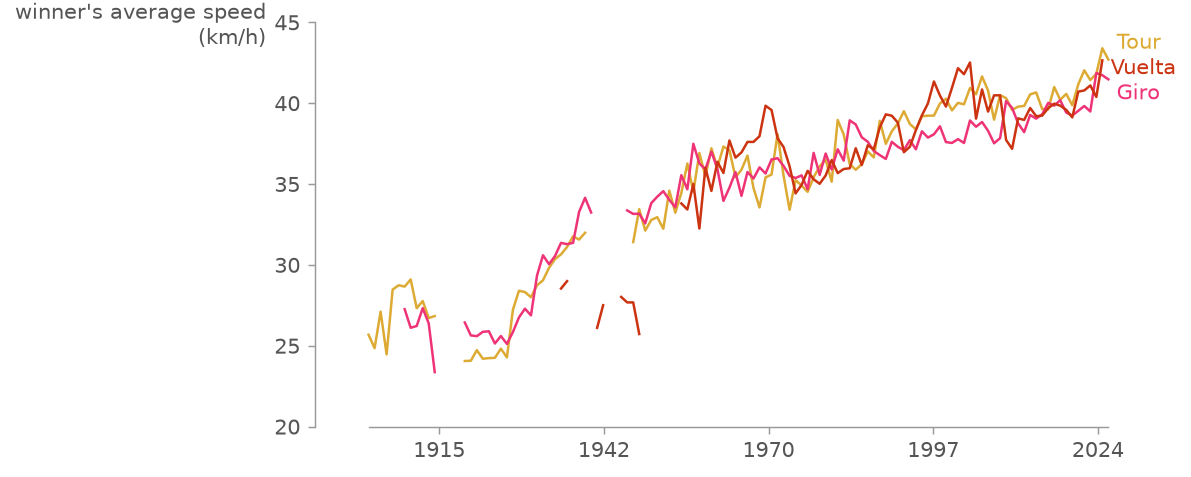
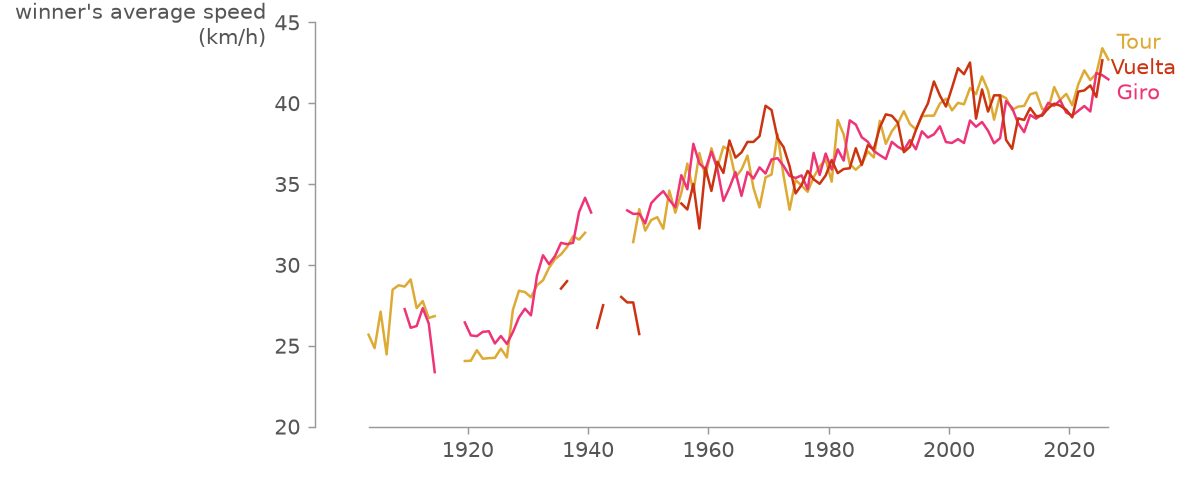
docs: plot date data before apply
apply detects a date axis through its converter at call time, so an
axis fed dates only afterwards keeps TalbotLocator and gets ticks at
nice day counts dressed as dates. Reorder the grand tours panel,
restoring calendar-start ticks, and state the ordering in Usage.

Claude-Session: https://claude.ai/code/session_01Fx5DXVwfXho6Lo1zi8Ne2d

diff --git a/examples/gallery.py b/examples/gallery.py
@@ -69,7 +69,6 @@ def grand_tours() -> None:
     years = np.arange(first, last + 1)
     dates = [dt.date(year, 7, 1) for year in years]
     fig, ax = plt.subplots(figsize=(7, 3.5))
-    vzs.apply(ax, frame=("data", "loose"))
     jerseys = {
         "tour": ("Tour", "tol:high_contrast.yellow"),
         "giro": ("Giro", "tol:magenta"),
@@ -79,6 +78,9 @@ def grand_tours() -> None:
         speeds = np.full(years.size, np.nan)
         speeds[table["year"].astype(int) - first] = table[column]
         ax.plot(dates, speeds, color=color, linewidth=1.2, label=label)
+    # Plot before apply: the axis becomes a date axis when date data
+    # arrives, and apply detects date-ness at call time.
+    vzs.apply(ax, frame=("data", "loose"))
     vzs.line_labels(ax)
     vzs.ylabel(ax, "winner's average speed\n(km/h)", flush=True)
     fig.savefig(OUTPUT / "grand_tours.png", dpi=150, bbox_inches="tight")

diff --git a/README.md b/README.md
@@ -72,7 +72,7 @@ vzs.line_labels(ax)  # label every line at its right end
 vzs.line_labels(ax, at="start")  # and/or at its left end
 ```
 
-Linear, log and date axes are handled; set the scale before calling `apply`. On a log axis the ticks sit on powers of the base and the minor ticks disappear with them; `ax.xaxis.set_minor_locator(matplotlib.ticker.LogLocator(subs="auto"))` brings the minors back. On a date axis the ticks sit on calendar starts (a year, a month, a day, an hour) and the labels shorten to what changes between ticks, so a run of months does not repeat the year. Anything else (`symlog`, `logit`, categorical axes) is left untouched with a warning. The warning covers the frame and ticks only; `line_labels` places its labels on any scale.
+Linear, log and date axes are handled; set the scale before calling `apply`, and plot date data first, since an axis only becomes a date axis once dates arrive on it. On a log axis the ticks sit on powers of the base and the minor ticks disappear with them; `ax.xaxis.set_minor_locator(matplotlib.ticker.LogLocator(subs="auto"))` brings the minors back. On a date axis the ticks sit on calendar starts (a year, a month, a day, an hour) and the labels shorten to what changes between ticks, so a run of months does not repeat the year. Anything else (`symlog`, `logit`, categorical axes) is left untouched with a warning. The warning covers the frame and ticks only; `line_labels` places its labels on any scale.
 
 ## Gallery
 
